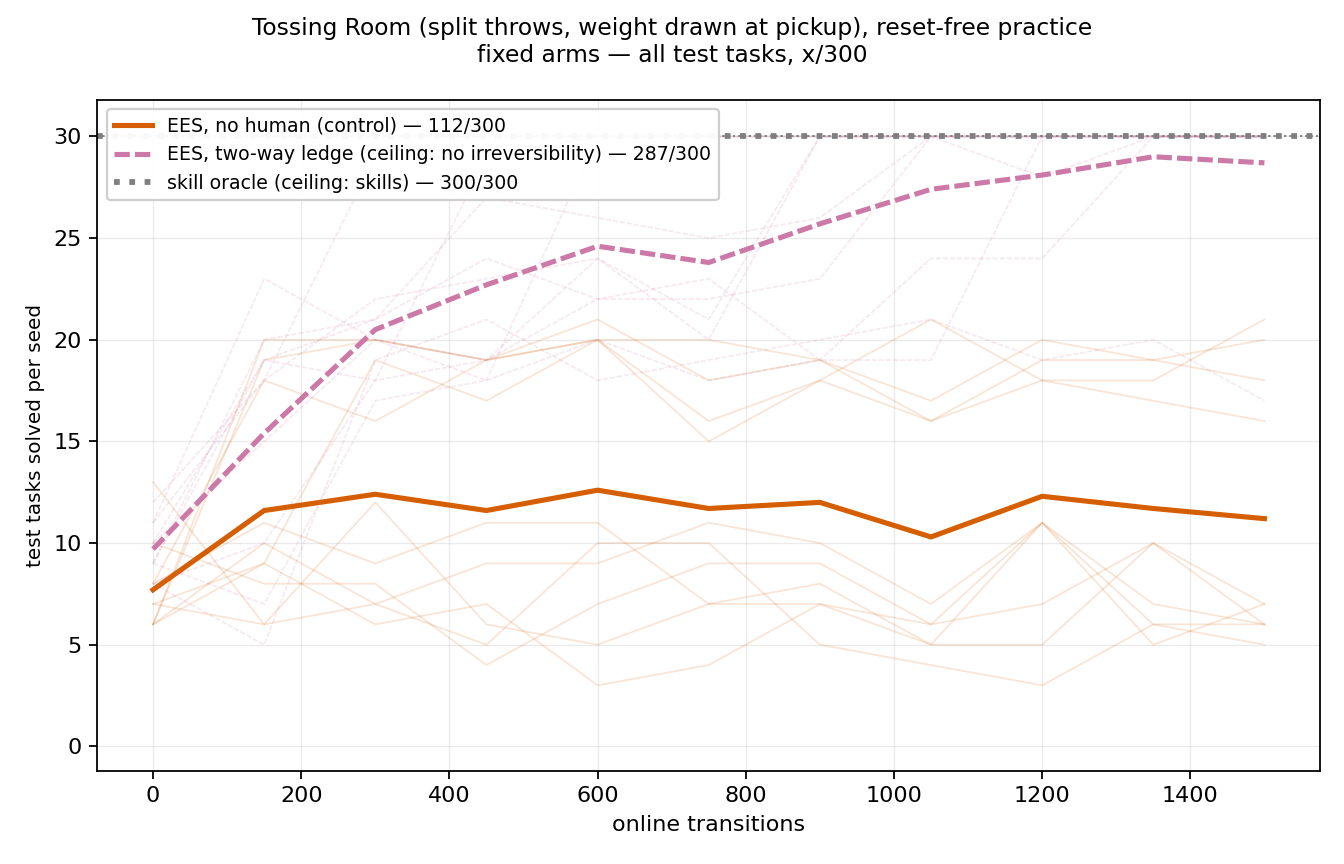
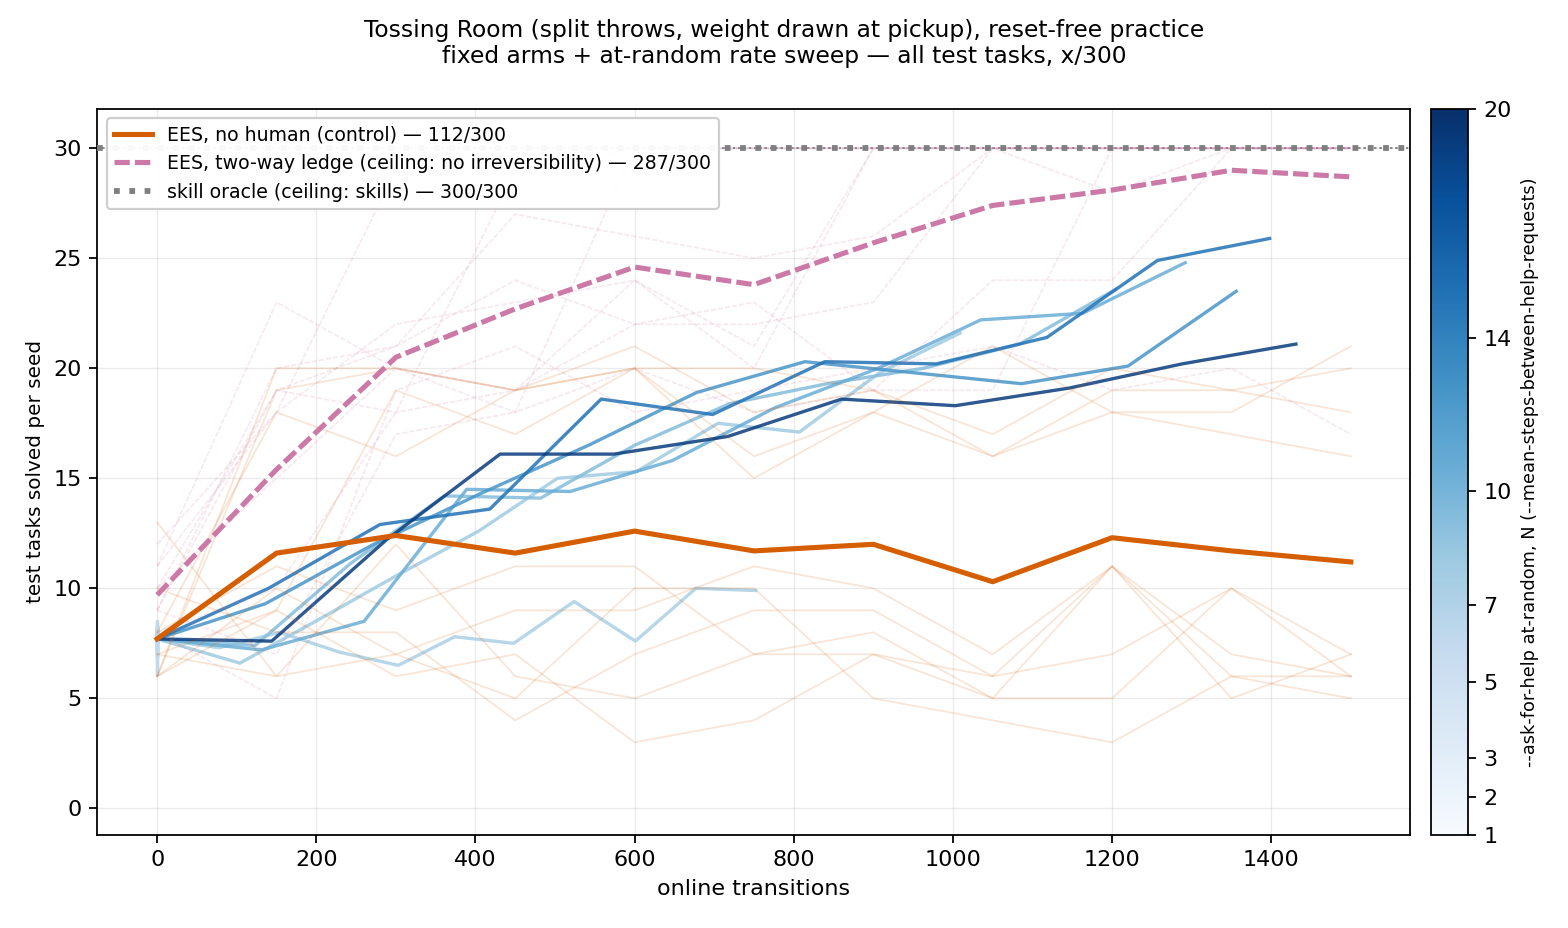
Plot all eight rate-sweep arms as training curves on the same fixed-arm panels
Josh's follow-up on #195: the dose-response summary alone didn't show the
rate sweep's shape over practice. render_family now draws all eight N points
on the same OVERALL/TRASH/RECYCLING panels the three fixed arms already use,
via a sequential Blues colourmap (light N=1 to dark N=20) with a colourbar
rather than eight more legend entries -- the readable encoding for one arm
per value of an ordered sweep, at Josh's suggestion. Rate-sweep curves are
thin, low-alpha and carry no per-seed traces of their own (80 more lines
would bury the panel; their spread is already in the dose-response figure),
drawn first so the three fixed arms' bold curves stay on top.

Additive, not a replacement: the dose-response figure stays, since it is
still the only place to read exact per-N numbers off the (colourbar-only)
merged panels.

Claude-Session: https://claude.ai/code/session_01YX4kv9fLBKzvmm3w25BvHF

diff --git a/analysis/practice_makes_perfect/human_ladder_curves.py b/analysis/practice_makes_perfect/human_ladder_curves.py
@@ -52,17 +52,28 @@ exist" arm -- the same reasoning CLAUDE.md's colour rule already carves out for
 `skill-oracle`/`random-skills`.
 
 **Colour.** `no-human` is orange (`#D55E00`): the standing "nothing helps" colour, reused
-across every figure in this report. The rate sweep is blue (`#0072B2`): an assistance
-mechanism (`at-random`) is available and firing at every N in the grid, which is what the
-blue/orange rule tracks -- not the actual rate. `skill-oracle` is grey and dotted (reference
-line); `two-way-ledge` gets a third, unreserved colour since it sits on neither axis.
+across every figure in this report. The rate sweep is blue-family (`Blues`, a sequential
+colourmap from light N=1 to dark N=20): every rate-sweep arm has an assistance mechanism
+available (`--ask-for-help at-random`, always firing at a strictly positive rate here), which
+is what the blue/orange rule tracks -- not the specific rate, which the colourmap's lightness
+carries instead. `skill-oracle` is grey and dotted (reference line); `two-way-ledge` gets a
+third, unreserved colour since it sits on neither axis.
 
-**The dose-response figure is not a training curve.** Arms 1-3 get the standing
-OVERALL/TRASH/RECYCLING training-curve treatment (per-seed faint traces under a bold pooled
-mean, across evaluation checkpoints). The rate sweep answers a different question -- what
-does final performance do as the rescue rate varies -- so its x axis is N, not online
-transitions, and it draws one point per seed at each of the eight sampled N values, plus the
-pooled mean, with the `no-human` and `skill-oracle` levels as reference lines for context.
+**The three training-curve figures (overall/TRASH/RECYCLING) carry all eleven arms on ONE
+panel each** -- the three fixed arms plus all eight rate-sweep points, so a reader sees the
+whole ladder's shape over practice, not just its final-checkpoint dose-response. The eight
+rate-sweep curves are thin, partly transparent and have no per-seed traces of their own (that
+would be 80 more lines); they are drawn first so the three fixed arms' bold, per-seed-backed
+curves stay visually on top. See `render_family` for why a colourbar replaces a named legend
+entry for the eight of them.
+
+**The separate dose-response figure is not a training curve, and stays alongside the merged
+panels rather than being replaced by them.** It answers a different question -- what does
+FINAL performance do as the rescue rate varies -- so its x axis is N, not online transitions,
+and it draws one point per seed at each of the eight sampled N values, plus the pooled mean,
+with the `no-human` and `skill-oracle` levels as reference lines for context. The merged
+training-curve panels show shape over practice; this figure is still the one to read for the
+exact per-N numbers the training curves intentionally omit from their (colourbar-only) legend.
 
 **The manipulation checks are not optional here.** `num_practice_resets` must be 0
 everywhere, or an arm labelled reset-free was quietly reset for free.
@@ -443,18 +454,74 @@ class HumanLadderCurves:
 
     @staticmethod
     def render_family(
-        *, arms: dict, family: str | None, output: Path, title: str, legend_loc: str = "upper left"
+        *,
+        arms: dict,
+        rate_sweep: dict,
+        family: str | None,
+        output: Path,
+        title: str,
+        legend_loc: str = "upper left",
     ) -> None:
-        """The three fixed arms on ONE goal family: the training curves.
+        """The three fixed arms AND all eight rate-sweep points on ONE goal family: the
+        training curves, all on the same panel.
 
         One figure per family (overall / TRASH / RECYCLING), matching the standing
         convention -- a pooled curve would average a large per-family effect against a
         flat one and show a muted version of neither. EMPTY gets no figure: 20/20 in every
-        arm, nothing for a curve to show."""
-        fig, ax = plt.subplots(figsize=(8.4, 5.4))
+        arm, nothing for a curve to show.
+
+        **Eleven lines on one panel needs a different legend strategy than three.** The
+        three fixed arms keep named legend entries with their exact pooled count, per the
+        standing convention. The eight rate-sweep arms do NOT get named entries -- eight
+        more `--mean-steps-between-help-requests=N -- x/300` strings would make the legend
+        itself the unreadable part of the figure. They get a sequential colourmap instead
+        (light N=1 to dark N=20) with a colourbar, which is the right encoding for an
+        ORDERED sweep of one parameter -- Josh's own suggestion, and the natural read for
+        "one arm per value of N" the way a discrete named legend is not. All eight are
+        blue-family (`Blues`), matching the project's role rule: every rate-sweep arm has
+        an assistance mechanism available (`--ask-for-help at-random`, always firing at a
+        strictly positive rate here -- see `check_manipulation`), which is what blue
+        encodes, not the specific rate. Orange stays reserved for `no-human`, the one arm
+        with no mechanism at all.
+
+        **The rate-sweep curves have no per-seed faint traces here, unlike the fixed
+        arms.** Eight arms x ten seeds is 80 more lines, which would bury the panel; their
+        per-seed spread already has its own figure (`render_rate_sweep`). They are drawn
+        first, thin and partly transparent, so the three fixed arms' bold lines stay on
+        top and visually dominant -- the same "faint underneath, bold on top" layering the
+        project's per-seed traces use, applied here to a whole population of secondary
+        arms instead of one arm's seeds."""
+        fig, ax = plt.subplots(figsize=(9.8, 5.8))
         seed_total = HumanLadderCurves.entry(
             run=arms[_FIXED_ARMS[0]], seed=sorted(arms[_FIXED_ARMS[0]])[0], family=family
         )[-1][1]
+
+        ns = sorted(rate_sweep)
+        cmap = matplotlib.colormaps["Blues"]
+        norm = matplotlib.colors.Normalize(vmin=min(ns), vmax=max(ns))
+        for n in ns:
+            run = rate_sweep[n]
+            # 0.30 floor keeps even N=1 (the lightest) visible against a white panel.
+            color = cmap(0.30 + 0.65 * norm(n))
+            xs = HumanLadderCurves.transitions(run=run)
+            pooled = HumanLadderCurves.pooled_curve(run=run, family=family)
+            scale = seed_total / pooled[-1][1]
+            ax.plot(
+                xs,
+                [solved * scale for solved, _ in pooled],
+                color=color,
+                linewidth=1.5,
+                alpha=0.85,
+                zorder=2,
+            )
+        scalar_mappable = plt.cm.ScalarMappable(cmap=cmap, norm=norm)
+        scalar_mappable.set_array([])
+        colorbar = fig.colorbar(scalar_mappable, ax=ax, pad=0.015, fraction=0.045)
+        colorbar.set_label(
+            "--ask-for-help at-random, N (--mean-steps-between-help-requests)", fontsize=8
+        )
+        colorbar.set_ticks(ns)
+
         for arm_name in _FIXED_ARMS:
             run = arms[arm_name]
             color = _COLORS[arm_name]
@@ -478,6 +545,7 @@ class HumanLadderCurves:
                     linestyle=linestyle,
                     linewidth=2.6,
                     label=label,
+                    zorder=4,
                 )
                 continue
             for seed in sorted(run):
@@ -489,6 +557,7 @@ class HumanLadderCurves:
                     linestyle=linestyle,
                     alpha=0.16,
                     linewidth=0.8,
+                    zorder=3,
                 )
             ax.plot(
                 xs,
@@ -497,6 +566,7 @@ class HumanLadderCurves:
                 linestyle=linestyle,
                 linewidth=2.3,
                 label=label,
+                zorder=4,
             )
         ax.set_xlabel("online transitions")
         ax.set_ylabel("test tasks solved per seed", fontsize=9)
@@ -601,7 +671,8 @@ class HumanLadderCurves:
             type=Path,
             required=True,
             help="Where the four figures are written: overall/TRASH/RECYCLING training "
-            "curves for the fixed arms, plus the rate-sweep dose-response figure.",
+            "curves (fixed arms plus all eight rate-sweep points, same panels), plus the "
+            "rate-sweep dose-response figure.",
         )
         args = parser.parse_args()
 
@@ -627,10 +698,11 @@ class HumanLadderCurves:
         ):
             HumanLadderCurves.render_family(
                 arms=arms,
+                rate_sweep=rate_sweep,
                 family=family,
                 output=args.output_dir
                 / f"human-ladder-{'overall' if family is None else family.lower()}.png",
-                title=f"{domain}\nfixed arms — {name}",
+                title=f"{domain}\nfixed arms + at-random rate sweep — {name}",
                 legend_loc=legend_loc,
             )
         HumanLadderCurves.render_rate_sweep(

diff --git a/tests/analysis/practice_makes_perfect/test_human_ladder_curves.py b/tests/analysis/practice_makes_perfect/test_human_ladder_curves.py
@@ -281,7 +281,9 @@ def test_render_family_and_rate_sweep_write_files(*, tmp_path: Path) -> None:
     output_dir.mkdir()
     for family, name in ((None, "overall"), ("TRASH", "trash"), ("RECYCLING", "recycling")):
         output = output_dir / f"human-ladder-{name}.png"
-        HumanLadderCurves.render_family(arms=arms, family=family, output=output, title="test")
+        HumanLadderCurves.render_family(
+            arms=arms, rate_sweep=rate_sweep, family=family, output=output, title="test"
+        )
         assert output.exists()
     rate_output = output_dir / "human-ladder-rate-sweep.png"
     HumanLadderCurves.render_rate_sweep(

diff --git a/docs/experiment-logs/2026-08-10-human-ladder-rate-sweep.md b/docs/experiment-logs/2026-08-10-human-ladder-rate-sweep.md
@@ -64,6 +64,14 @@ dose-response over a swept parameter rather than a reset-policy comparison, so i
 is final performance against N with per-seed spread shown, not a redundant bar chart
 alongside it.
 
+**Follow-up guidance, after the first version of this PR shipped only the dose-response
+summary**: Josh wanted all eight rate-sweep arms plotted as training curves too, on the same
+OVERALL/TRASH/RECYCLING panels the three fixed arms already have — not a separate figure.
+Use judgement on keeping eleven lines per panel readable (a sequential colourmap, reduced
+line weight/alpha, or a grid split were all offered as options); keep the dose-response
+figure too, since training curves and the end-state summary answer different questions and
+neither replaces the other.
+
 ## Methods
 
 Four components, driven by `scripts/run_sweep.py` (one invocation per component; the N axis
@@ -108,13 +116,28 @@ the way #151's was.
 
 ## Results
 
-### Fixed arms
+### Fixed arms, and all eight rate-sweep points, as training curves on the same panels
 
-![all test tasks, x/300, three fixed arms as training curves](2026-08-10-human-ladder-overall.png)
+Each panel below carries all eleven arms: the three fixed arms (named legend entries, exact
+pooled count) plus all eight rate-sweep points (a sequential `Blues` colourmap from light
+N=1 to dark N=20, with a colourbar rather than eight more legend entries — the natural
+encoding for one arm per value of an ordered sweep). The rate-sweep curves are thin and
+partly transparent with no per-seed traces of their own, drawn first so the three fixed
+arms' bold, per-seed-backed curves stay visually on top. Shape over practice is what these
+panels are for; exact per-N numbers are the table and the dose-response figure below.
+
+![all test tasks, x/300, three fixed arms plus the eight-point at-random rate sweep as training curves, rate-sweep colour encodes N light-to-dark](2026-08-10-human-ladder-overall.png)
 
 ![TRASH tasks, x/140](2026-08-10-human-ladder-trash.png)
 
 ![RECYCLING tasks, x/140](2026-08-10-human-ladder-recycling.png)
+
+**Reading the merged panel against the dose-response table below**: the lightest
+(low-N) rate-sweep curves visibly track close to, and at times below, the orange `no-human`
+line on OVERALL — the N=1/N=2 underperformance is visible as shape, not just as the two
+numbers in the table. The darker (high-N) curves climb well above the control without
+reaching `two-way-ledge`, consistent with the table's best point landing at N=14, short of
+either ceiling.
 
 Final checkpoint, pooled over 10 seeds:
 
